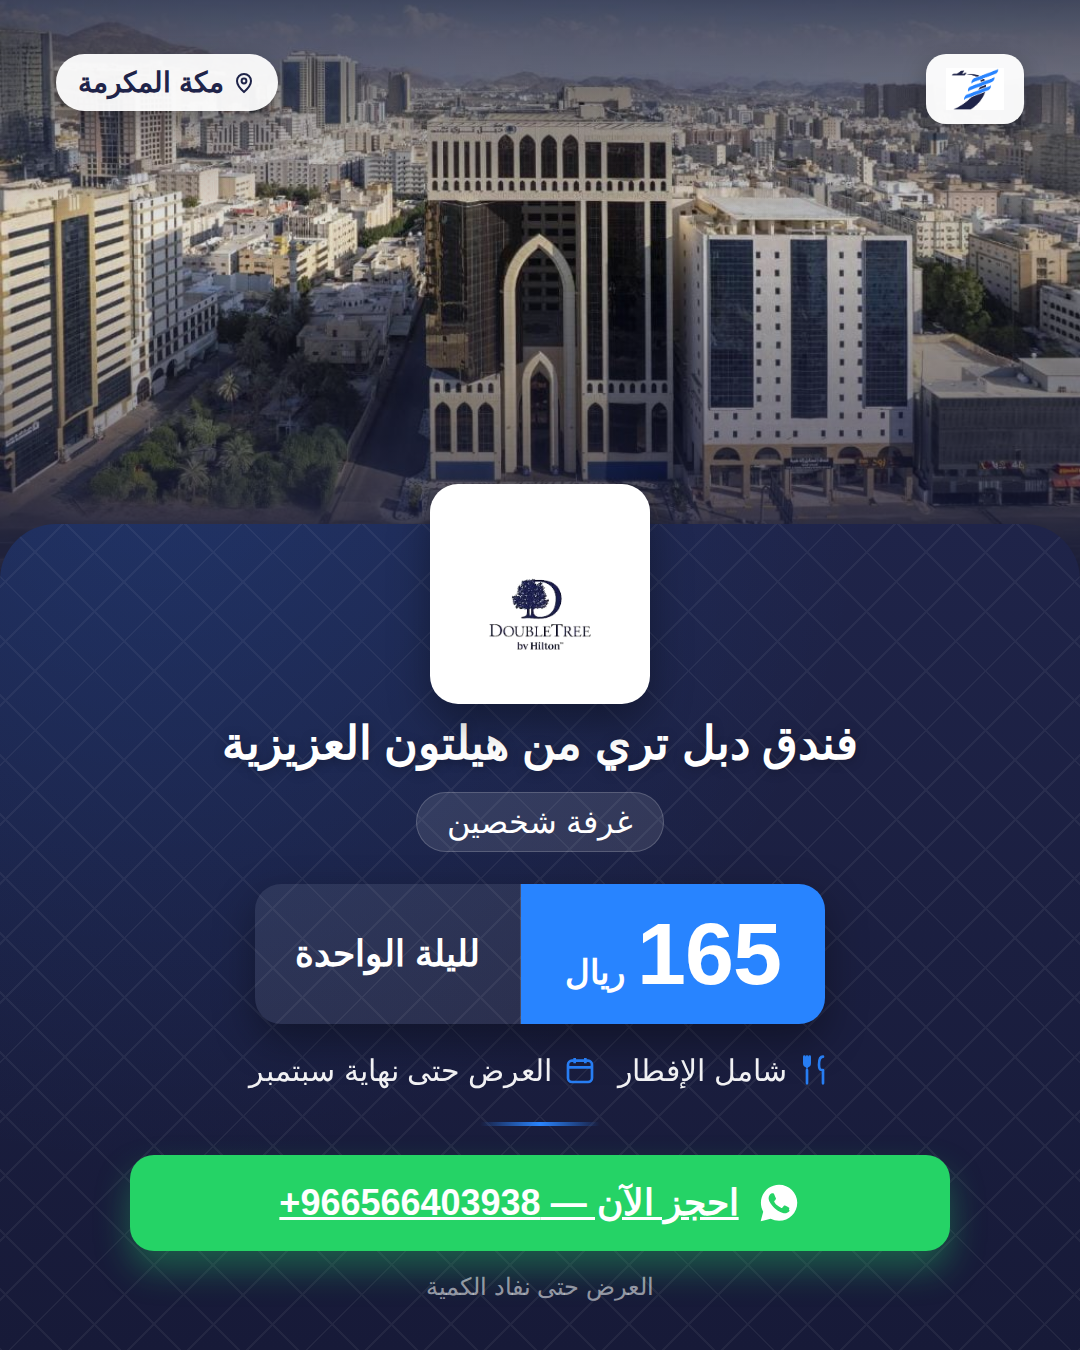
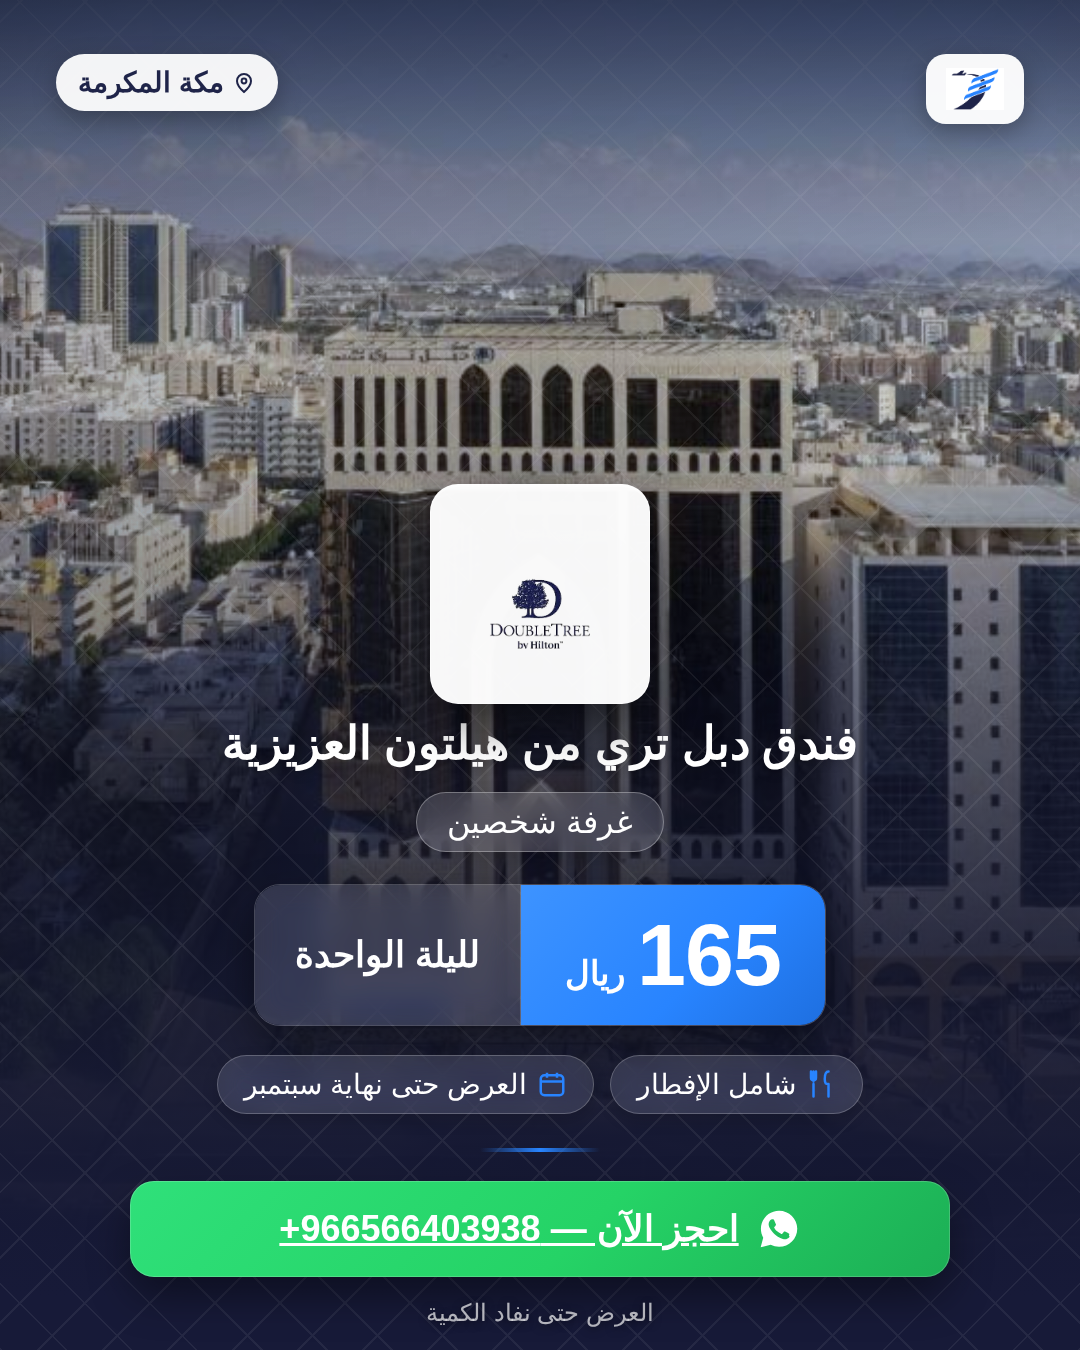
Composite the hotel photo into one layered background instead of a separate panel
Full-bleed photo with brand duotone grade, vignette and gradient scrim; logo
medallion, price card, meta chips and CTA now float directly on the image via
glassmorphism instead of sitting on a boxed-off card, matching a real agency
composited-ad look.

diff --git a/hotel-instagram-template/template.html b/hotel-instagram-template/template.html
@@ -21,25 +21,48 @@
     direction:rtl;
   }
 
-  /* ---------- HERO PHOTO ---------- */
+  /* ---------- HERO PHOTO (full-bleed, one continuous image behind everything) ---------- */
   .hero{
-    position:absolute; top:0; left:0; right:0;
-    height:{{HERO_H}}px;
+    position:absolute; inset:0;
     overflow:hidden;
   }
   .hero img{
-    width:100%; height:100%; object-fit:cover;
-    filter:saturate(1.06) contrast(1.04) brightness(0.97);
+    width:100%; height:100%; object-fit:cover; object-position:center 38%;
+    filter:saturate(1.12) contrast(1.06) brightness(0.92);
+    transform:scale(1.02);
   }
-  .hero::after{
-    content:"";
+  /* brand colour-grade so the real photo reads as one system with the palette */
+  .duotone{
     position:absolute; inset:0;
-    background:linear-gradient(180deg, rgba(23,26,56,0.05) 0%, rgba(23,26,56,0.10) 45%, rgba(23,26,56,0.55) 78%, var(--navy-2) 100%);
+    background:linear-gradient(160deg, rgba(31,36,73,0.42) 0%, rgba(40,132,255,0.10) 45%, rgba(23,26,56,0.30) 100%);
+    mix-blend-mode:multiply;
+  }
+  .vignette{
+    position:absolute; inset:0;
+    background:radial-gradient(120% 90% at 50% 30%, rgba(0,0,0,0) 45%, rgba(10,12,28,0.45) 100%);
+  }
+  /* the scrim is what lets the text/cards float ON the photo instead of on a separate block */
+  .scrim{
+    position:absolute; inset:0;
+    background:linear-gradient(180deg,
+      rgba(18,20,42,0) 0%,
+      rgba(18,20,42,0.05) {{SCRIM_START}}%,
+      rgba(18,20,42,0.46) {{SCRIM_MID}}%,
+      rgba(19,22,46,0.82) {{SCRIM_LATE}}%,
+      var(--navy-2) 96%);
   }
   .hero-topgrad{
-    position:absolute; top:0; left:0; right:0; height:220px;
-    background:linear-gradient(180deg, rgba(15,17,38,0.65) 0%, rgba(15,17,38,0) 100%);
+    position:absolute; top:0; left:0; right:0; height:240px;
+    background:linear-gradient(180deg, rgba(10,12,28,0.55) 0%, rgba(10,12,28,0) 100%);
     z-index:2;
+  }
+  .grain-pattern{
+    position:absolute; inset:0;
+    opacity:0.06;
+    background-image:
+      repeating-linear-gradient(45deg, var(--white) 0 2px, transparent 2px 46px),
+      repeating-linear-gradient(-45deg, var(--white) 0 2px, transparent 2px 46px);
+    pointer-events:none;
   }
 
   /* ---------- TOP BAR ---------- */
@@ -69,41 +92,39 @@
   }
   .location-pill svg{ width:24px; height:24px; flex:none; }
 
-  /* ---------- HOTEL LOGO MEDALLION ---------- */
+  /* ---------- HOTEL LOGO MEDALLION (floats directly on the photo, halo lifts it off) ---------- */
+  .medallion-halo{
+    position:absolute;
+    top:calc({{MEDALLION_TOP}}px - 30px); left:50%; transform:translateX(-50%);
+    width:280px; height:280px;
+    background:radial-gradient(circle, rgba(10,12,28,0.55) 0%, rgba(10,12,28,0) 70%);
+    z-index:5;
+  }
   .hotel-medallion{
     position:absolute;
     top:{{MEDALLION_TOP}}px; left:50%; transform:translateX(-50%);
     width:220px; height:220px;
-    background:var(--white);
+    background:rgba(255,255,255,0.97);
+    border:1px solid rgba(255,255,255,0.6);
     border-radius:28px;
     display:flex; align-items:center; justify-content:center;
-    box-shadow:0 18px 40px rgba(0,0,0,0.35);
+    box-shadow:0 22px 46px rgba(0,0,0,0.45), 0 2px 0 rgba(255,255,255,0.4) inset;
     z-index:6;
     padding:20px;
   }
   .hotel-medallion img{ width:100%; height:100%; object-fit:contain; }
 
-  /* ---------- PANEL ---------- */
+  /* ---------- CONTENT ZONE (no boxed panel — everything floats on the same photo) ---------- */
   .panel{
     position:absolute;
     top:{{PANEL_TOP}}px; left:0; right:0; bottom:0;
-    background:
-      radial-gradient(120% 160% at 15% -10%, rgba(40,132,255,0.16) 0%, rgba(40,132,255,0) 55%),
-      linear-gradient(180deg, var(--navy) 0%, var(--navy-2) 100%);
-    border-radius:56px 56px 0 0;
     z-index:3;
     overflow:hidden;
-  }
-  .panel-pattern{
-    position:absolute; inset:0;
-    opacity:0.05;
-    background-image:
-      repeating-linear-gradient(45deg, var(--white) 0 2px, transparent 2px 42px),
-      repeating-linear-gradient(-45deg, var(--white) 0 2px, transparent 2px 42px);
     pointer-events:none;
   }
 
   .panel-content{
+    pointer-events:auto;
     position:relative; z-index:2;
     padding:{{PANEL_PAD_TOP}}px 56px {{PANEL_PAD_BOTTOM}}px 56px;
     display:flex; flex-direction:column; align-items:center;
@@ -124,13 +145,16 @@
 
   .room-chip{
     margin-top:calc(22px * var(--gap));
-    background:rgba(255,255,255,0.10);
-    border:1px solid rgba(255,255,255,0.18);
+    background:rgba(255,255,255,0.14);
+    backdrop-filter:blur(14px) saturate(1.4);
+    -webkit-backdrop-filter:blur(14px) saturate(1.4);
+    border:1px solid rgba(255,255,255,0.30);
     color:var(--white);
     font-weight:500;
     font-size:32px;
     padding:10px 30px;
     border-radius:999px;
+    box-shadow:0 8px 20px rgba(0,0,0,0.18);
   }
 
   .price-row{
@@ -138,10 +162,11 @@
     display:flex; align-items:stretch; gap:0;
     border-radius:26px;
     overflow:hidden;
-    box-shadow:0 16px 40px rgba(0,0,0,0.35);
+    box-shadow:0 20px 46px rgba(0,0,0,0.45);
+    border:1px solid rgba(255,255,255,0.22);
   }
   .price-tag{
-    background:var(--blue);
+    background:linear-gradient(135deg, #3D93FF 0%, var(--blue) 60%, #1E6FE0 100%);
     color:var(--white);
     display:flex; align-items:baseline; gap:12px;
     padding:26px 44px;
@@ -150,30 +175,37 @@
   .price-num{ font-size:88px; line-height:1; letter-spacing:-1px; }
   .price-cur{ font-size:34px; font-weight:700; }
   .price-label{
-    background:rgba(255,255,255,0.08);
+    background:rgba(255,255,255,0.14);
+    backdrop-filter:blur(14px) saturate(1.4);
+    -webkit-backdrop-filter:blur(14px) saturate(1.4);
     color:var(--white);
     display:flex; align-items:center;
     padding:0 40px;
     font-size:36px;
     font-weight:700;
-    border-right:1px solid rgba(255,255,255,0.14);
+    border-right:1px solid rgba(255,255,255,0.20);
   }
 
   .meta-row{
     margin-top:calc(34px * var(--gap));
-    display:flex; align-items:center; gap:22px;
+    display:flex; align-items:center; gap:16px;
     flex-wrap:wrap;
     justify-content:center;
   }
   .meta-item{
-    display:flex; align-items:center; gap:12px;
+    display:flex; align-items:center; gap:10px;
     color:var(--white);
-    font-size:30px;
+    font-size:28px;
     font-weight:500;
-    opacity:0.94;
+    background:rgba(255,255,255,0.12);
+    backdrop-filter:blur(12px) saturate(1.4);
+    -webkit-backdrop-filter:blur(12px) saturate(1.4);
+    border:1px solid rgba(255,255,255,0.22);
+    border-radius:999px;
+    padding:12px 26px;
+    box-shadow:0 6px 16px rgba(0,0,0,0.16);
   }
-  .meta-item svg{ width:32px; height:32px; flex:none; color:var(--blue); }
-  .meta-dot{ width:6px; height:6px; border-radius:50%; background:rgba(255,255,255,0.35); }
+  .meta-item svg{ width:30px; height:30px; flex:none; color:var(--blue); }
 
   .divider{
     width:120px; height:4px; border-radius:4px;
@@ -184,22 +216,23 @@
   .cta{
     margin-top:calc(34px * var(--gap));
     width:100%; max-width:820px;
-    background:#25D366;
+    background:linear-gradient(135deg, #2FE07A 0%, #25D366 55%, #1CAE55 100%);
     color:var(--white);
     border-radius:24px;
     padding:26px 36px;
     display:flex; align-items:center; justify-content:center; gap:18px;
     font-weight:800; font-size:36px;
-    box-shadow:0 18px 34px rgba(37,211,102,0.35);
+    box-shadow:0 20px 40px rgba(0,0,0,0.4), 0 0 0 1px rgba(255,255,255,0.18) inset;
   }
   .cta svg{ width:44px; height:44px; flex:none; }
   .cta .num{ unicode-bidi:isolate; direction:ltr; font-weight:700; }
 
   .footnote{
     margin-top:calc(26px * var(--gap));
-    color:rgba(255,255,255,0.55);
+    color:rgba(255,255,255,0.68);
     font-size:24px;
     font-weight:500;
+    text-shadow:0 2px 8px rgba(0,0,0,0.5);
     padding-bottom:{{FOOT_PAD}}px;
   }
 </style>
@@ -208,6 +241,10 @@
 
   <div class="hero">
     <img src="{{HOTEL_PHOTO}}">
+    <div class="duotone"></div>
+    <div class="vignette"></div>
+    <div class="scrim"></div>
+    <div class="grain-pattern"></div>
   </div>
   <div class="hero-topgrad"></div>
 
@@ -221,12 +258,12 @@
     </div>
   </div>
 
+  <div class="medallion-halo"></div>
   <div class="hotel-medallion">
     <img src="{{HOTEL_LOGO}}">
   </div>
 
   <div class="panel">
-    <div class="panel-pattern"></div>
     <div class="panel-content">
       <div class="hotel-name">{{HOTEL_NAME}}</div>
       <div class="room-chip">{{ROOM_TYPE}}</div>

diff --git a/hotel-instagram-template/render.js b/hotel-instagram-template/render.js
@@ -44,6 +44,11 @@ function build(hotelDataPath, format) {
   const PANEL_PAD_TOP_BASE = 190;
   const FOOT_PAD = 8;
 
+  const heroPct = (HERO_H / CANVAS_H) * 100;
+  const SCRIM_START = Math.max(18, Math.round(heroPct - 14));
+  const SCRIM_MID = Math.round(heroPct + 6);
+  const SCRIM_LATE = Math.min(88, Math.round(heroPct + 26));
+
   const metaBlocks = [];
   const mealsBlock = data.meals ? metaItem('meal', data.meals) : '';
   const dateBlock = data.offerDate ? metaItem('calendar', data.offerDate) : '';
@@ -51,6 +56,7 @@ function build(hotelDataPath, format) {
 
   const replacements = {
     CANVAS_W, CANVAS_H, HERO_H, PANEL_TOP, MEDALLION_TOP,
+    SCRIM_START, SCRIM_MID, SCRIM_LATE,
     PANEL_PAD_TOP: PANEL_PAD_TOP_BASE + PANEL_PAD_TOP_EXTRA, FOOT_PAD, GAP_SCALE,
     PANEL_PAD_BOTTOM: isStory ? 260 : 50,
     PANEL_JUSTIFY: isStory ? 'center' : 'flex-start',
